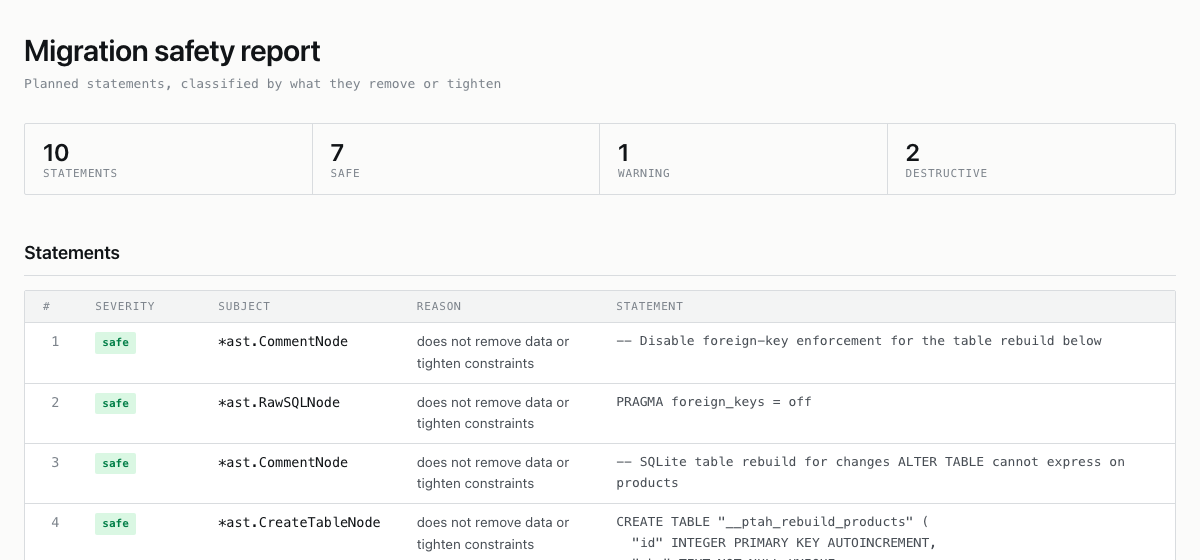
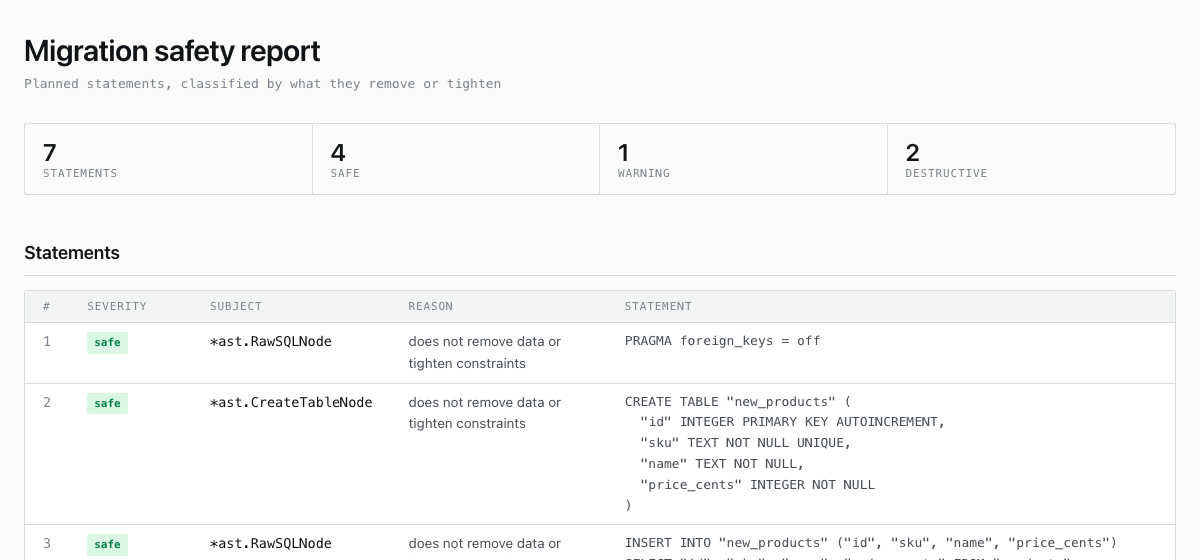
Regenerate the migration safety report sample (#5383)
The sample stopped matching what `migrations generate --report html` writes
when the planners began marking their descriptive comments (#5353): an
exact plan leaves them out, so the SQLite rebuild in the fixture reports 7
statements, not 10, and the drop carries no warning comment. The sample
committed with that change renamed the rebuild table but kept the comments,
and the Generated assets job has failed on every master push since.

The sample and its screenshot are regenerated with `npm run assets:write`
from a binary built at 21a3a31d3; no other screenshot moved. The generate
page said the SQLite planner keeps its comments and showed one in the down
file, which the binary no longer writes.

diff --git a/docs/site/public/samples/reports/migration-safety-report.html b/docs/site/public/samples/reports/migration-safety-report.html
@@ -139,8 +139,8 @@ td.stmt pre { color: var(--text-dim); }
 <h1>Migration safety report</h1>
 <div class="lede">Planned statements, classified by what they remove or tighten</div>
 <div class="stats">
-<div class="stat"><div class="stat-n">10</div><div class="stat-l">statements</div></div>
-<div class="stat"><div class="stat-n">7</div><div class="stat-l">safe</div></div>
+<div class="stat"><div class="stat-n">7</div><div class="stat-l">statements</div></div>
+<div class="stat"><div class="stat-n">4</div><div class="stat-l">safe</div></div>
 <div class="stat"><div class="stat-n">1</div><div class="stat-l">warning</div></div>
 <div class="stat"><div class="stat-n">2</div><div class="stat-l">destructive</div></div>
 </div>
@@ -152,29 +152,13 @@ td.stmt pre { color: var(--text-dim); }
 <tr>
 <td class="num">1</td>
 <td><span class="tag safe">safe</span></td>
-<td class="name">*ast.CommentNode</td>
-<td class="comment">does not remove data or tighten constraints</td>
-<td class="stmt"><pre>-- Disable foreign-key enforcement for the table rebuild below</pre></td>
-</tr>
-
-<tr>
-<td class="num">2</td>
-<td><span class="tag safe">safe</span></td>
 <td class="name">*ast.RawSQLNode</td>
 <td class="comment">does not remove data or tighten constraints</td>
 <td class="stmt"><pre>PRAGMA foreign_keys = off</pre></td>
 </tr>
 
 <tr>
-<td class="num">3</td>
-<td><span class="tag safe">safe</span></td>
-<td class="name">*ast.CommentNode</td>
-<td class="comment">does not remove data or tighten constraints</td>
-<td class="stmt"><pre>-- SQLite table rebuild for changes ALTER TABLE cannot express on products</pre></td>
-</tr>
-
-<tr>
-<td class="num">4</td>
+<td class="num">2</td>
 <td><span class="tag safe">safe</span></td>
 <td class="name">*ast.CreateTableNode</td>
 <td class="comment">does not remove data or tighten constraints</td>
@@ -187,7 +171,7 @@ td.stmt pre { color: var(--text-dim); }
 </tr>
 
 <tr>
-<td class="num">5</td>
+<td class="num">3</td>
 <td><span class="tag safe">safe</span></td>
 <td class="name">*ast.RawSQLNode</td>
 <td class="comment">does not remove data or tighten constraints</td>
@@ -195,7 +179,7 @@ td.stmt pre { color: var(--text-dim); }
 </tr>
 
 <tr>
-<td class="num">6</td>
+<td class="num">4</td>
 <td><span class="tag destructive">destructive</span></td>
 <td class="name">products</td>
 <td class="comment">DROP TABLE removes the table and all rows</td>
@@ -203,7 +187,7 @@ td.stmt pre { color: var(--text-dim); }
 </tr>
 
 <tr>
-<td class="num">7</td>
+<td class="num">5</td>
 <td><span class="tag warning">warning</span></td>
 <td class="name">*ast.RawSQLNode</td>
 <td class="comment">rename can break deployed readers and writers</td>
@@ -211,24 +195,15 @@ td.stmt pre { color: var(--text-dim); }
 </tr>
 
 <tr>
-<td class="num">8</td>
+<td class="num">6</td>
 <td><span class="tag destructive">destructive</span></td>
 <td class="name">legacy_inventory</td>
 <td class="comment">DROP TABLE removes the table and all rows</td>
-<td class="stmt"><pre>-- WARNING: This will delete all data!
-DROP TABLE IF EXISTS &#34;legacy_inventory&#34;</pre></td>
+<td class="stmt"><pre>DROP TABLE IF EXISTS &#34;legacy_inventory&#34;</pre></td>
 </tr>
 
 <tr>
-<td class="num">9</td>
-<td><span class="tag safe">safe</span></td>
-<td class="name">*ast.CommentNode</td>
-<td class="comment">does not remove data or tighten constraints</td>
-<td class="stmt"><pre>-- Restore foreign-key enforcement after the table rebuild</pre></td>
-</tr>
-
-<tr>
-<td class="num">10</td>
+<td class="num">7</td>
 <td><span class="tag safe">safe</span></td>
 <td class="name">*ast.RawSQLNode</td>
 <td class="comment">does not remove data or tighten constraints</td>
